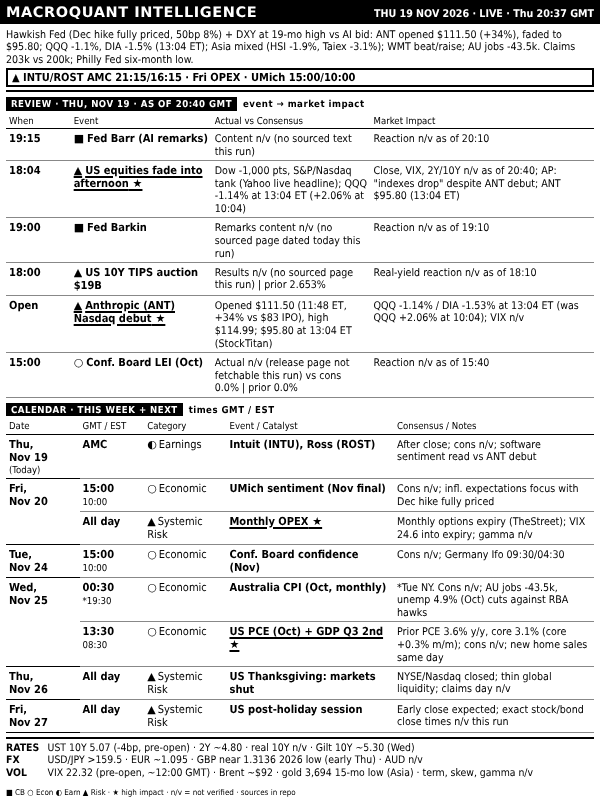
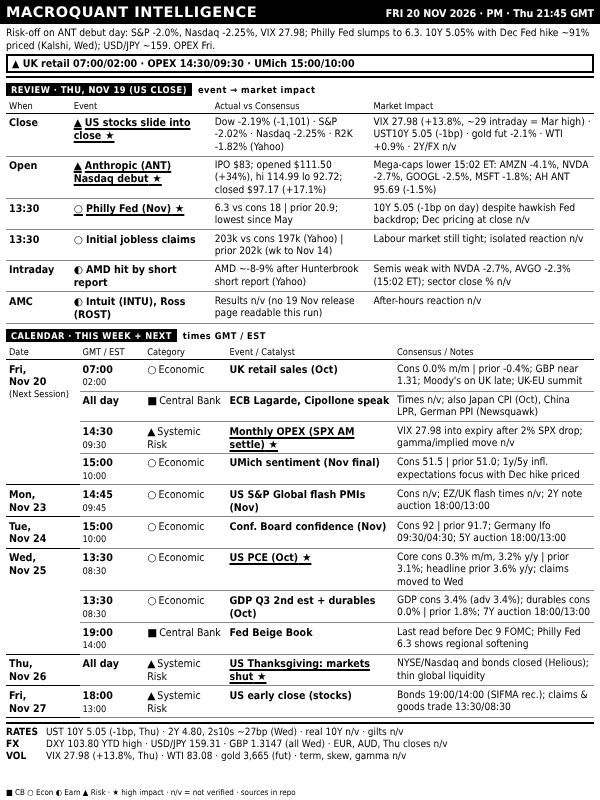
dashboard: FRI 20 NOV 2026 PM
Claude-Session: https://claude.ai/code/session_016SJqa5amMJAHQV1R7LrKY4

Changed region(s): [[0.0, 0.0, 0.99, 0.9688]]

diff --git a/out/dashboard.html b/out/dashboard.html
@@ -38,12 +38,12 @@ table.bd{border-collapse:collapse;width:100%;table-layout:fixed;margin-top:1px}
 </style></head><body>
 <div id="root">
  <div class="hdr"><span class="t">MACROQUANT INTELLIGENCE</span>
-  <span class="r">THU 19 NOV 2026 · LIVE · Thu 20:37 GMT</span></div>
- <div class="ban"><div class="rg">Hawkish Fed (Dec hike fully priced, 50bp 8%) + DXY at 19-mo high vs AI bid: ANT opened $111.50 (+34%), faded to $95.80; QQQ -1.1%, DIA -1.5% (13:04 ET); Asia mixed (HSI -1.9%, Taiex -3.1%); WMT beat/raise; AU jobs -43.5k. Claims 203k vs 200k; Philly Fed six-month low.</div><div class="al">▲ INTU/ROST AMC 21:15/16:15 · Fri OPEX · UMich 15:00/10:00</div></div>
- <div class="sl"><span>REVIEW · THU, NOV 19 · AS OF 20:40 GMT</span>event → market impact</div><table class="bd rv"><colgroup><col style="width:11%"><col style="width:24%"><col style="width:27%"><col></colgroup><tr><th>When</th><th>Event</th><th>Actual vs Consensus</th><th>Market Impact</th></tr><tr><td class="tm"><b>19:15</b></td><td class="ev"><i>■</i>Fed Barr (AI remarks)</td><td class="ac">Content n/v (no sourced text this run)</td><td class="nt">Reaction n/v as of 20:10</td></tr><tr class="h"><td class="tm"><b>18:04</b></td><td class="ev"><i>▲</i>US equities fade into afternoon</td><td class="ac">Dow -1,000 pts, S&amp;P/Nasdaq tank (Yahoo live headline); QQQ -1.14% at 13:04 ET (+2.06% at 10:04)</td><td class="nt">Close, VIX, 2Y/10Y n/v as of 20:40; AP: "indexes drop" despite ANT debut; ANT $95.80 (13:04 ET)</td></tr><tr><td class="tm"><b>19:00</b></td><td class="ev"><i>■</i>Fed Barkin</td><td class="ac">Remarks content n/v (no sourced page dated today this run)</td><td class="nt">Reaction n/v as of 19:10</td></tr><tr><td class="tm"><b>18:00</b></td><td class="ev"><i>▲</i>US 10Y TIPS auction $19B</td><td class="ac">Results n/v (no sourced page this run) | prior 2.653%</td><td class="nt">Real-yield reaction n/v as of 18:10</td></tr><tr class="h"><td class="tm"><b>Open</b></td><td class="ev"><i>▲</i>Anthropic (ANT) Nasdaq debut</td><td class="ac">Opened $111.50 (11:48 ET, +34% vs $83 IPO), high $114.99; $95.80 at 13:04 ET (StockTitan)</td><td class="nt">QQQ -1.14% / DIA -1.53% at 13:04 ET (was QQQ +2.06% at 10:04); VIX n/v</td></tr><tr><td class="tm"><b>15:00</b></td><td class="ev"><i>○</i>Conf. Board LEI (Oct)</td><td class="ac">Actual n/v (release page not fetchable this run) vs cons 0.0% | prior 0.0%</td><td class="nt">Reaction n/v as of 15:40</td></tr></table>
+  <span class="r">FRI 20 NOV 2026 · PM · Thu 21:45 GMT</span></div>
+ <div class="ban"><div class="rg">Risk-off on ANT debut day: S&amp;P -2.0%, Nasdaq -2.25%, VIX 27.98; Philly Fed slumps to 6.3. 10Y 5.05% with Dec Fed hike ~91% priced (Kalshi, Wed); USD/JPY ~159. OPEX Fri.</div><div class="al">▲ UK retail 07:00/02:00 · OPEX 14:30/09:30 · UMich 15:00/10:00</div></div>
+ <div class="sl"><span>REVIEW · THU, NOV 19 (US CLOSE)</span>event → market impact</div><table class="bd rv"><colgroup><col style="width:11%"><col style="width:24%"><col style="width:27%"><col></colgroup><tr><th>When</th><th>Event</th><th>Actual vs Consensus</th><th>Market Impact</th></tr><tr class="h"><td class="tm"><b>Close</b></td><td class="ev"><i>▲</i>US stocks slide into close</td><td class="ac">Dow -2.19% (-1,101) · S&amp;P -2.02% · Nasdaq -2.25% · R2K -1.82% (Yahoo)</td><td class="nt">VIX 27.98 (+13.8%, ~29 intraday = Mar high) · UST10Y 5.05 (-1bp) · gold fut -2.1% · WTI +0.9% · 2Y/FX n/v</td></tr><tr class="h"><td class="tm"><b>Open</b></td><td class="ev"><i>▲</i>Anthropic (ANT) Nasdaq debut</td><td class="ac">IPO $83; opened $111.50 (+34%), hi 114.99 lo 92.72; closed $97.17 (+17.1%)</td><td class="nt">Mega-caps lower 15:02 ET: AMZN -4.1%, NVDA -2.7%, GOOGL -2.5%, MSFT -1.8%; AH ANT 95.69 (-1.5%)</td></tr><tr class="h"><td class="tm"><b>13:30</b></td><td class="ev"><i>○</i>Philly Fed (Nov)</td><td class="ac">6.3 vs cons 18 | prior 20.9; lowest since May</td><td class="nt">10Y 5.05 (-1bp on day) despite hawkish Fed backdrop; Dec pricing at close n/v</td></tr><tr><td class="tm"><b>13:30</b></td><td class="ev"><i>○</i>Initial jobless claims</td><td class="ac">203k vs cons 197k (Yahoo) | prior 202k (wk to Nov 14)</td><td class="nt">Labour market still tight; isolated reaction n/v</td></tr><tr><td class="tm"><b>Intraday</b></td><td class="ev"><i>◐</i>AMD hit by short report</td><td class="ac">AMD ~-8-9% after Hunterbrook short report (Yahoo)</td><td class="nt">Semis weak with NVDA -2.7%, AVGO -2.3% (15:02 ET); sector close % n/v</td></tr><tr><td class="tm"><b>AMC</b></td><td class="ev"><i>◐</i>Intuit (INTU), Ross (ROST)</td><td class="ac">Results n/v (no 19 Nov release page readable this run)</td><td class="nt">After-hours reaction n/v</td></tr></table>
  <div class="sl"><span>CALENDAR · THIS WEEK + NEXT</span>times GMT / EST</div>
- <table class="bd"><colgroup><col style="width:12.5%"><col style="width:11%"><col style="width:14%"><col style="width:28.5%"><col></colgroup><tr><th>Date</th><th>GMT / EST</th><th>Category</th><th>Event / Catalyst</th><th>Consensus / Notes</th></tr><tr class="g0"><td class="dt" rowspan="1">Thu,<br>Nov&nbsp;19<span class="tg">(Today)</span></td><td class="tm"><b>AMC</b></td><td class="ct"><i>◐</i>Earnings</td><td class="ev">Intuit (INTU), Ross (ROST)</td><td class="nt">After close; cons n/v; software sentiment read vs ANT debut</td></tr><tr class="g0"><td class="dt" rowspan="2">Fri,<br>Nov&nbsp;20</td><td class="tm"><b>15:00</b><span>10:00</span></td><td class="ct"><i>○</i>Economic</td><td class="ev">UMich sentiment (Nov final)</td><td class="nt">Cons n/v; infl. expectations focus with Dec hike fully priced</td></tr><tr class="h"><td class="tm"><b>All day</b></td><td class="ct"><i>▲</i>Systemic Risk</td><td class="ev">Monthly OPEX</td><td class="nt">Monthly options expiry (TheStreet); VIX 24.6 into expiry; gamma n/v</td></tr><tr class="g0"><td class="dt" rowspan="1">Tue,<br>Nov&nbsp;24</td><td class="tm"><b>15:00</b><span>10:00</span></td><td class="ct"><i>○</i>Economic</td><td class="ev">Conf. Board confidence (Nov)</td><td class="nt">Cons n/v; Germany Ifo 09:30/04:30</td></tr><tr class="g0"><td class="dt" rowspan="2">Wed,<br>Nov&nbsp;25</td><td class="tm"><b>00:30</b><span>*19:30</span></td><td class="ct"><i>○</i>Economic</td><td class="ev">Australia CPI (Oct, monthly)</td><td class="nt">*Tue NY. Cons n/v; AU jobs -43.5k, unemp 4.9% (Oct) cuts against RBA hawks</td></tr><tr class="h"><td class="tm"><b>13:30</b><span>08:30</span></td><td class="ct"><i>○</i>Economic</td><td class="ev">US PCE (Oct) + GDP Q3 2nd</td><td class="nt">Prior PCE 3.6% y/y, core 3.1% (core +0.3% m/m); cons n/v; new home sales same day</td></tr><tr class="g0"><td class="dt" rowspan="1">Thu,<br>Nov&nbsp;26</td><td class="tm"><b>All day</b></td><td class="ct"><i>▲</i>Systemic Risk</td><td class="ev">US Thanksgiving: markets shut</td><td class="nt">NYSE/Nasdaq closed; thin global liquidity; claims day n/v</td></tr><tr class="g0"><td class="dt" rowspan="1">Fri,<br>Nov&nbsp;27</td><td class="tm"><b>All day</b></td><td class="ct"><i>▲</i>Systemic Risk</td><td class="ev">US post-holiday session</td><td class="nt">Early close expected; exact stock/bond close times n/v this run</td></tr></table>
- <div class="lv"><div><b>RATES</b>UST 10Y 5.07 (-4bp, pre-open) · 2Y ~4.80 · real 10Y n/v · Gilt 10Y ~5.30 (Wed)</div><div><b>FX</b>USD/JPY &gt;159.5 · EUR ~1.095 · GBP near 1.3136 2026 low (early Thu) · AUD n/v</div><div><b>VOL</b>VIX 22.32 (pre-open, ~12:00 GMT) · Brent ~$92 · gold 3,694 15-mo low (Asia) · term, skew, gamma n/v</div></div>
+ <table class="bd"><colgroup><col style="width:12.5%"><col style="width:11%"><col style="width:14%"><col style="width:28.5%"><col></colgroup><tr><th>Date</th><th>GMT / EST</th><th>Category</th><th>Event / Catalyst</th><th>Consensus / Notes</th></tr><tr class="g0"><td class="dt" rowspan="4">Fri,<br>Nov&nbsp;20<span class="tg">(Next Session)</span></td><td class="tm"><b>07:00</b><span>02:00</span></td><td class="ct"><i>○</i>Economic</td><td class="ev">UK retail sales (Oct)</td><td class="nt">Cons 0.0% m/m | prior -0.4%; GBP near 1.31; Moody's on UK late; UK-EU summit</td></tr><tr class=""><td class="tm"><b>All day</b></td><td class="ct"><i>■</i>Central Bank</td><td class="ev">ECB Lagarde, Cipollone speak</td><td class="nt">Times n/v; also Japan CPI (Oct), China LPR, German PPI (Newsquawk)</td></tr><tr class="h"><td class="tm"><b>14:30</b><span>09:30</span></td><td class="ct"><i>▲</i>Systemic Risk</td><td class="ev">Monthly OPEX (SPX AM settle)</td><td class="nt">VIX 27.98 into expiry after 2% SPX drop; gamma/implied move n/v</td></tr><tr class=""><td class="tm"><b>15:00</b><span>10:00</span></td><td class="ct"><i>○</i>Economic</td><td class="ev">UMich sentiment (Nov final)</td><td class="nt">Cons 51.5 | prior 51.0; 1y/5y infl. expectations focus with Dec hike priced</td></tr><tr class="g0"><td class="dt" rowspan="1">Mon,<br>Nov&nbsp;23</td><td class="tm"><b>14:45</b><span>09:45</span></td><td class="ct"><i>○</i>Economic</td><td class="ev">US S&amp;P Global flash PMIs (Nov)</td><td class="nt">Cons n/v; EZ/UK flash times n/v; 2Y note auction 18:00/13:00</td></tr><tr class="g0"><td class="dt" rowspan="1">Tue,<br>Nov&nbsp;24</td><td class="tm"><b>15:00</b><span>10:00</span></td><td class="ct"><i>○</i>Economic</td><td class="ev">Conf. Board confidence (Nov)</td><td class="nt">Cons 92 | prior 91.7; Germany Ifo 09:30/04:30; 5Y auction 18:00/13:00</td></tr><tr class="g0 h"><td class="dt" rowspan="3">Wed,<br>Nov&nbsp;25</td><td class="tm"><b>13:30</b><span>08:30</span></td><td class="ct"><i>○</i>Economic</td><td class="ev">US PCE (Oct)</td><td class="nt">Core cons 0.3% m/m, 3.2% y/y | prior 3.1%; headline prior 3.6% y/y; claims moved to Wed</td></tr><tr class=""><td class="tm"><b>13:30</b><span>08:30</span></td><td class="ct"><i>○</i>Economic</td><td class="ev">GDP Q3 2nd est + durables (Oct)</td><td class="nt">GDP cons 3.4% (adv 3.4%); durables cons 0.0% | prior 1.8%; 7Y auction 18:00/13:00</td></tr><tr class=""><td class="tm"><b>19:00</b><span>14:00</span></td><td class="ct"><i>■</i>Central Bank</td><td class="ev">Fed Beige Book</td><td class="nt">Last read before Dec 9 FOMC; Philly Fed 6.3 shows regional softening</td></tr><tr class="g0 h"><td class="dt" rowspan="1">Thu,<br>Nov&nbsp;26</td><td class="tm"><b>All day</b></td><td class="ct"><i>▲</i>Systemic Risk</td><td class="ev">US Thanksgiving: markets shut</td><td class="nt">NYSE/Nasdaq and bonds closed (Helious); thin global liquidity</td></tr><tr class="g0"><td class="dt" rowspan="1">Fri,<br>Nov&nbsp;27</td><td class="tm"><b>18:00</b><span>13:00</span></td><td class="ct"><i>▲</i>Systemic Risk</td><td class="ev">US early close (stocks)</td><td class="nt">Bonds 19:00/14:00 (SIFMA rec.); claims &amp; goods trade 13:30/08:30</td></tr></table>
+ <div class="lv"><div><b>RATES</b>UST 10Y 5.05 (-1bp, Thu) · 2Y 4.80, 2s10s ~27bp (Wed) · real 10Y n/v · gilts n/v</div><div><b>FX</b>DXY 103.80 YTD high · USD/JPY 159.31 · GBP 1.3147 (all Wed) · EUR, AUD, Thu closes n/v</div><div><b>VOL</b>VIX 27.98 (+13.8%, Thu) · WTI 83.08 · gold 3,665 (fut) · term, skew, gamma n/v</div></div>
 </div>
 <div class="foot">■ CB ○ Econ ◐ Earn ▲ Risk · ★ high impact · n/v = not verified · sources in repo</div>
 </body></html>
